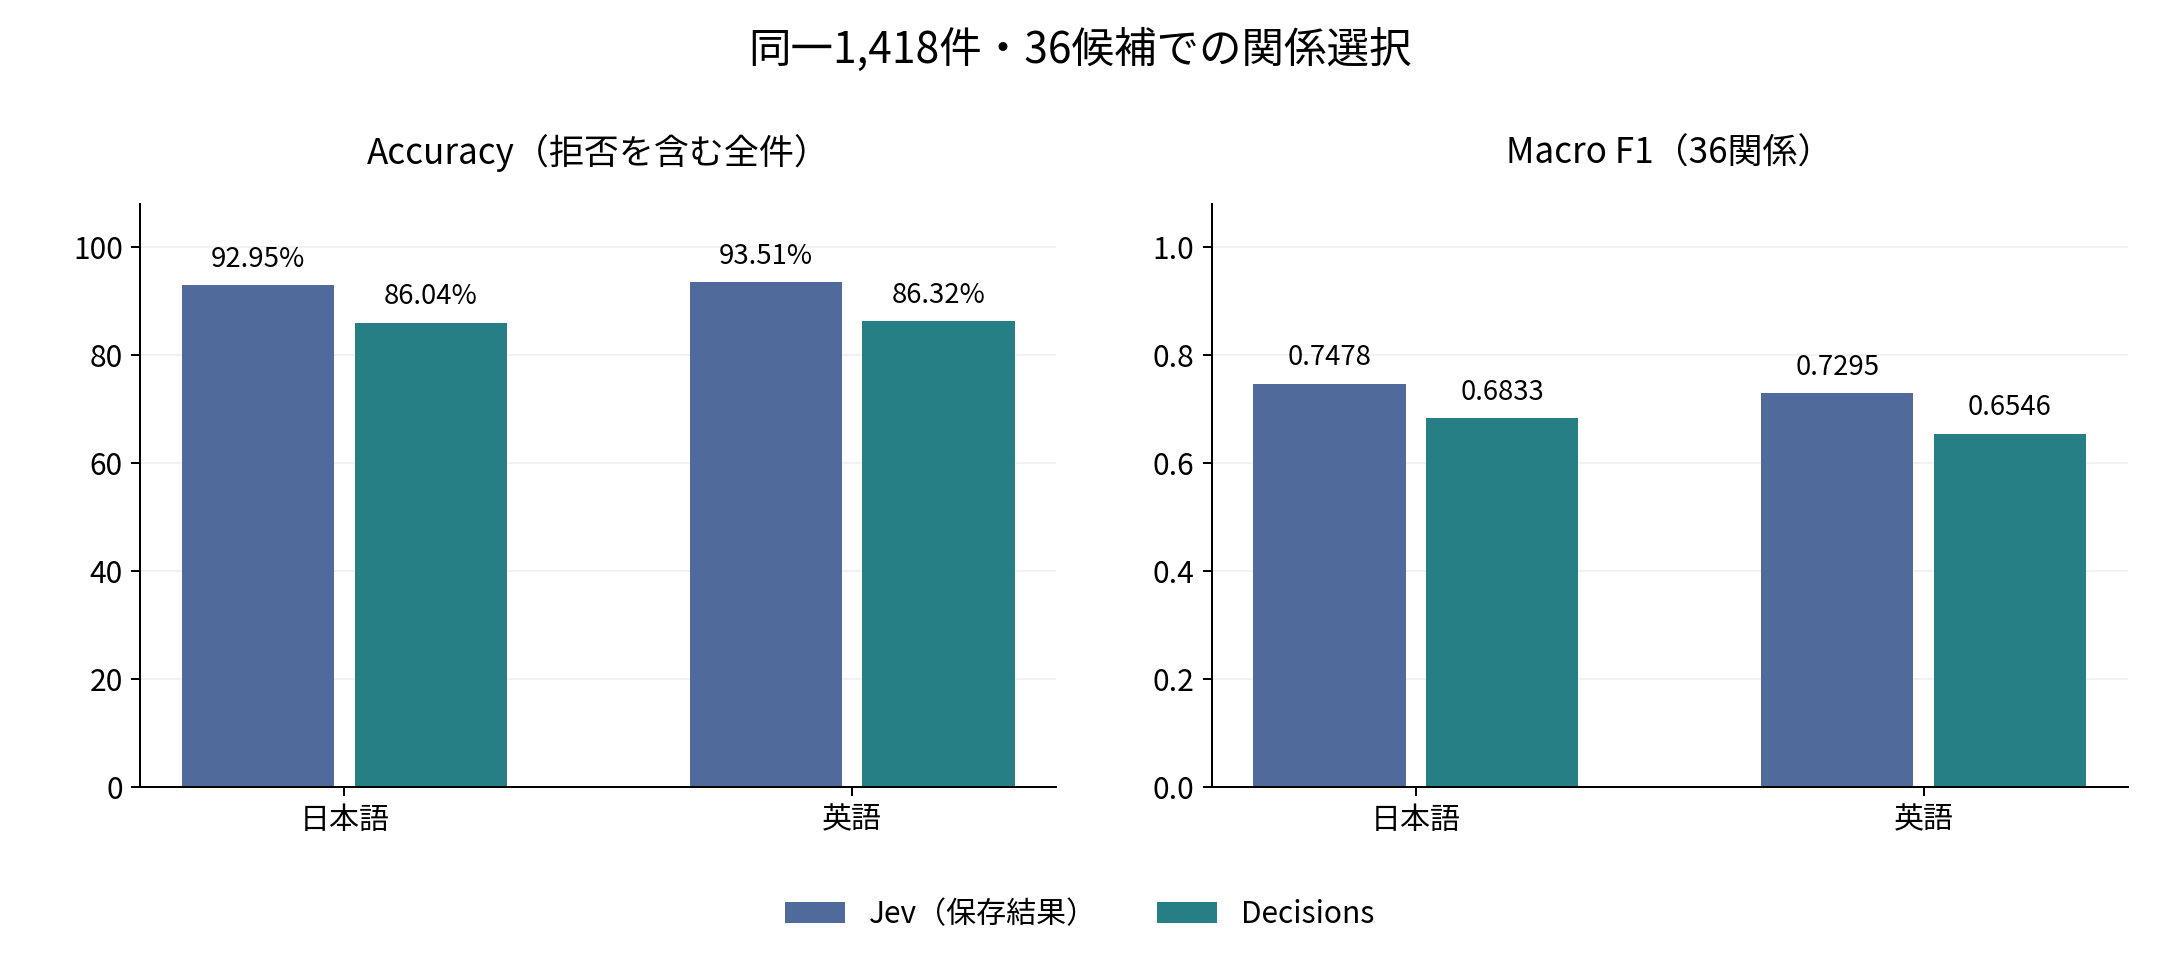
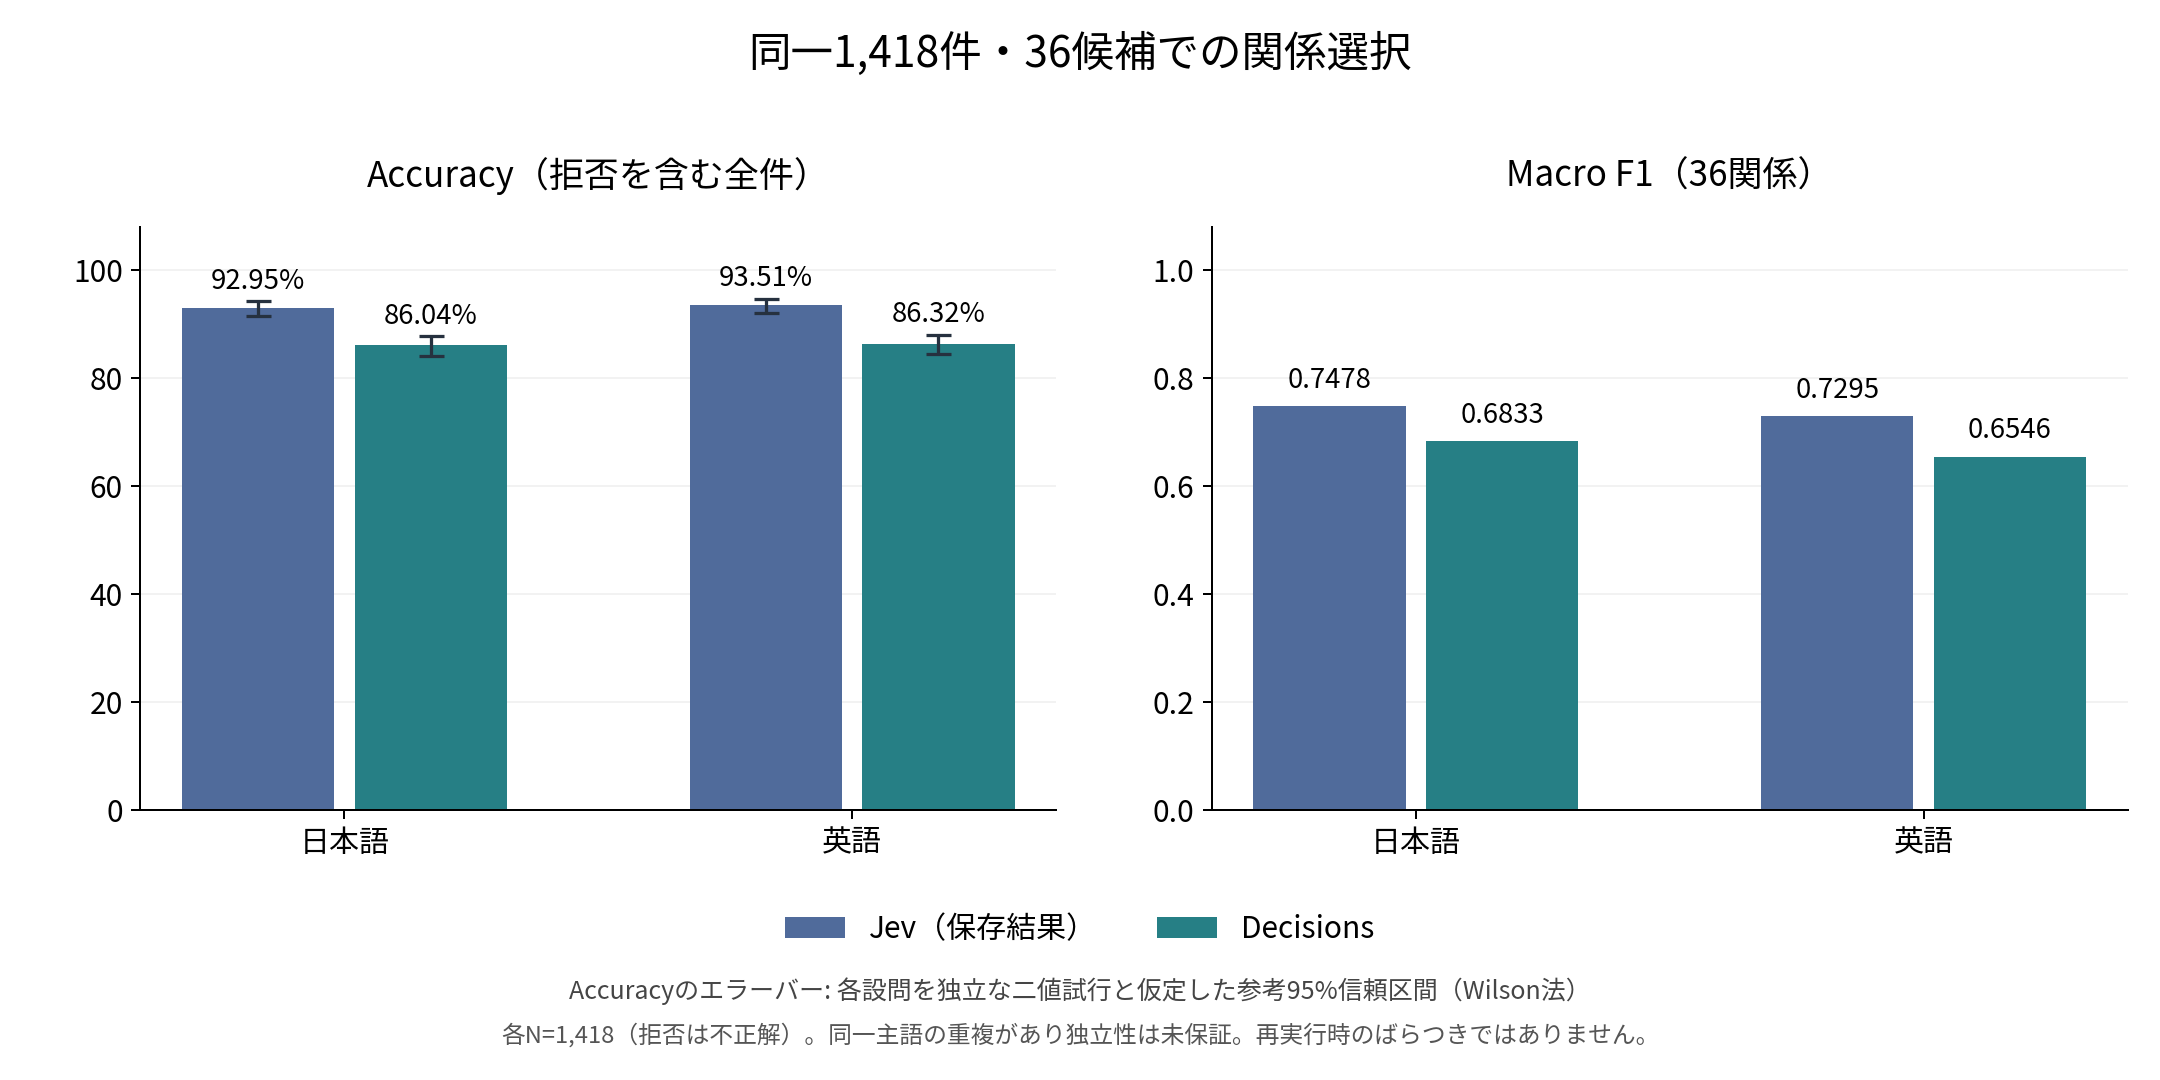
Add reference Wilson confidence intervals to accuracy comparison

diff --git a/www/content/llm/decisions-jev-relation-comparison/sample/build_comparison.py b/www/content/llm/decisions-jev-relation-comparison/sample/build_comparison.py
@@ -3,10 +3,39 @@
 import argparse
 from collections import Counter
 import json
+import math
 from pathlib import Path
 import statistics
 
 import evaluate_relations as evaluation
+
+
+WILSON_Z_95 = 1.95996398454
+
+
+def wilson_interval(correct, total, z=WILSON_Z_95):
+    """Two-sided Wilson score interval, conditional on independent binary trials.
+
+    Uses all evaluated records (including refusals), not valid choices only.
+    This is not a repeated-run interval or a paired significance test.
+    Formula: https://www.itl.nist.gov/div898/handbook/prc/section2/prc241.htm
+    """
+    if (type(correct) is not int or type(total) is not int or
+            total <= 0 or not 0 <= correct <= total):
+        raise ValueError("Counts must be integers with 0 <= correct <= total and total > 0")
+    if not math.isfinite(z) or z <= 0:
+        raise ValueError("z must be positive and finite")
+    p = correct / total
+    z2 = z * z
+    denominator = 1 + z2 / total
+    center = (p + z2 / (2 * total)) / denominator
+    half_width = z * math.sqrt(p * (1 - p) / total + z2 / (4 * total * total)) / denominator
+    return max(0.0, center - half_width), min(1.0, center + half_width)
+
+
+def accuracy_interval(result):
+    """Derive the interval from unrounded all-record counts, never from coverage."""
+    return wilson_interval(result["correct"], result["records"])
 
 
 def report(dataset_dir, decisions_dir):
@@ -113,22 +142,38 @@ def figures(data, output):
     colors = {"decisions": "#267f85", "jev_historical": "#506b9b"}
     langs = ("ja", "en")
     positions = np.arange(2)
-    fig, axes = plt.subplots(1, 2, figsize=(12, 5.4))
-    fig.subplots_adjust(left=.065, right=.985, bottom=.19, top=.79, wspace=.17)
+    fig, axes = plt.subplots(1, 2, figsize=(12, 6.0))
+    fig.subplots_adjust(left=.065, right=.985, bottom=.25, top=.79, wspace=.17)
     for ax, metric, title, scale in ((axes[0], "accuracy_all_records", "Accuracy（拒否を含む全件）", 100),
                                     (axes[1], "macro_f1_all_candidates", "Macro F1（36関係）", 1)):
         for i, provider in enumerate(("jev_historical", "decisions")):
             values = [data["languages"][lang][provider][metric] * scale for lang in langs]
+            bounds = ([accuracy_interval(data["languages"][lang][provider]) for lang in langs]
+                      if metric == "accuracy_all_records" else None)
+            error = ([[value - low * scale for value, (low, high) in zip(values, bounds)],
+                      [high * scale - value for value, (low, high) in zip(values, bounds)]]
+                     if bounds else None)
             bars = ax.bar(positions + (i - .5) * .34, values, width=.30, color=colors[provider],
+                          yerr=error, capsize=5,
+                          error_kw={"ecolor": "#26313f", "elinewidth": 1.3, "capthick": 1.3},
                           label="Jev（保存結果）" if provider == "jev_historical" else "Decisions")
-            ax.bar_label(bars, labels=[f"{x:.2f}%" if scale == 100 else f"{x:.4f}" for x in values], padding=5, fontsize=11)
+            if bounds:
+                for bar, value, (_, high) in zip(bars, values, bounds):
+                    ax.annotate(f"{value:.2f}%", (bar.get_x() + bar.get_width() / 2, high * scale),
+                                xytext=(0, 5), textcoords="offset points", ha="center", fontsize=11)
+            else:
+                ax.bar_label(bars, labels=[f"{x:.4f}" for x in values], padding=5, fontsize=11)
         ax.set_xticks(positions, ["日本語", "英語"])
         ax.set_ylim(0, 108 if scale == 100 else 1.08)
         ax.set_title(title, fontsize=14)
         ax.set_axisbelow(True)
         ax.grid(axis="y", alpha=.16)
     handles, labels = axes[0].get_legend_handles_labels()
-    fig.legend(handles, labels, loc="lower center", bbox_to_anchor=(.5, .015), ncol=2, frameon=False)
+    fig.legend(handles, labels, loc="lower center", bbox_to_anchor=(.5, .10), ncol=2, frameon=False)
+    fig.text(.5, .075, "Accuracyのエラーバー: 各設問を独立な二値試行と仮定した参考95%信頼区間（Wilson法）",
+             ha="center", fontsize=10, color="#454545")
+    fig.text(.5, .035, "各N=1,418（拒否は不正解）。同一主語の重複があり独立性は未保証。再実行時のばらつきではありません。",
+             ha="center", fontsize=9.5, color="#555555")
     fig.suptitle("同一1,418件・36候補での関係選択", fontsize=17, y=.97)
     fig.savefig(output / "quality-comparison.png", dpi=180)
     plt.close(fig)

diff --git a/www/content/llm/decisions-jev-relation-comparison/sample/tests/test_confidence_intervals.py b/www/content/llm/decisions-jev-relation-comparison/sample/tests/test_confidence_intervals.py
@@ -1,0 +1,75 @@
+"""Offline tests for reference Wilson intervals on all-record accuracy only."""
+import json
+import math
+from pathlib import Path
+import sys
+import unittest
+
+ROOT = Path(__file__).resolve().parents[1]
+sys.path.insert(0, str(ROOT))
+import build_comparison as comparison
+
+
+class WilsonIntervalTests(unittest.TestCase):
+    def test_published_four_intervals(self):
+        expected = {
+            1220: (0.841350787227958, 0.8774353992767379),
+            1224: (0.8443170958986999, 0.8800955969582831),
+            1318: (0.9149595750124766, 0.9416760171232568),
+            1326: (0.9210874380192129, 0.9468011668210949),
+        }
+        self.assertEqual(comparison.WILSON_Z_95, 1.95996398454)
+        for correct, bounds in expected.items():
+            with self.subTest(correct=correct):
+                actual = comparison.wilson_interval(correct, 1418)
+                for got, want in zip(actual, bounds):
+                    self.assertAlmostEqual(got, want, places=13)
+
+    def test_bounds_solve_score_test_equation(self):
+        # Independent characterization: inversion of the binomial score test.
+        for correct, total in ((20, 100), (1220, 1418), (1326, 1418)):
+            p = correct / total
+            for bound in comparison.wilson_interval(correct, total):
+                score = (p - bound) / math.sqrt(bound * (1 - bound) / total)
+                self.assertAlmostEqual(abs(score), comparison.WILSON_Z_95, places=10)
+
+    def test_zero_and_all_correct_stay_in_unit_interval(self):
+        z2 = comparison.WILSON_Z_95 ** 2
+        low, high = comparison.wilson_interval(0, 10)
+        self.assertAlmostEqual(low, 0)
+        self.assertAlmostEqual(high, z2 / (10 + z2))
+        low, high = comparison.wilson_interval(10, 10)
+        self.assertAlmostEqual(low, 10 / (10 + z2))
+        self.assertAlmostEqual(high, 1)
+
+    def test_complement_symmetry(self):
+        low, high = comparison.wilson_interval(8, 20)
+        other_low, other_high = comparison.wilson_interval(12, 20)
+        self.assertAlmostEqual(low, 1 - other_high)
+        self.assertAlmostEqual(high, 1 - other_low)
+
+    def test_refusals_remain_in_denominator(self):
+        data = json.loads((ROOT / "aggregate-results.json").read_text())
+        for language in data["languages"].values():
+            for provider in ("decisions", "jev_historical"):
+                result = language[provider]
+                self.assertEqual(result["records"], 1418)
+                self.assertEqual(comparison.accuracy_interval(result),
+                                 comparison.wilson_interval(result["correct"], 1418))
+                self.assertAlmostEqual(result["correct"] / result["records"],
+                                       result["accuracy_all_records"])
+            result = language["decisions"]
+            self.assertNotEqual(comparison.accuracy_interval(result),
+                                comparison.wilson_interval(result["correct"], result["valid_choices"]))
+
+    def test_invalid_inputs_are_rejected(self):
+        for correct, total in ((0, 0), (-1, 10), (11, 10), (1.5, 10), (1, 10.5), (True, 10)):
+            with self.subTest(correct=correct, total=total), self.assertRaises(ValueError):
+                comparison.wilson_interval(correct, total)
+        for z in (0, -1, float("nan"), float("inf")):
+            with self.subTest(z=z), self.assertRaises(ValueError):
+                comparison.wilson_interval(5, 10, z)
+
+
+if __name__ == "__main__":
+    unittest.main()
